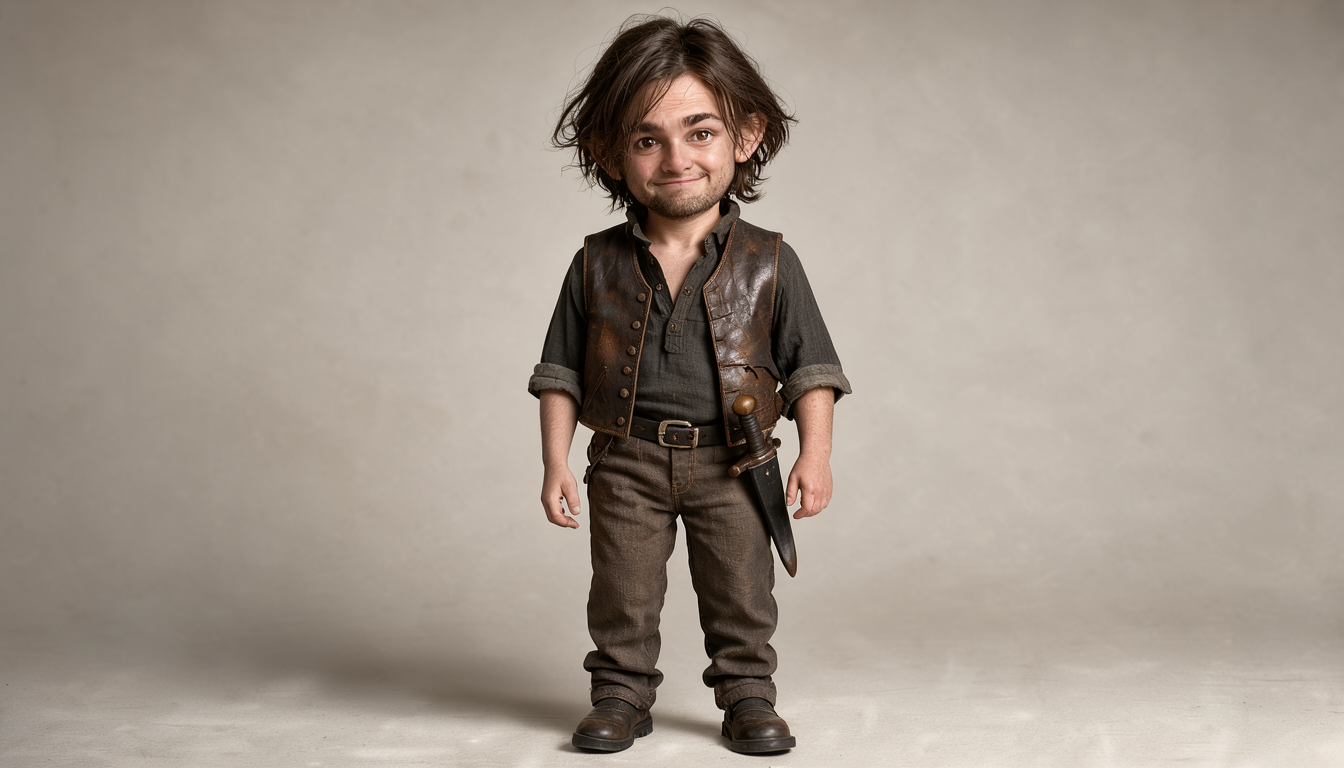
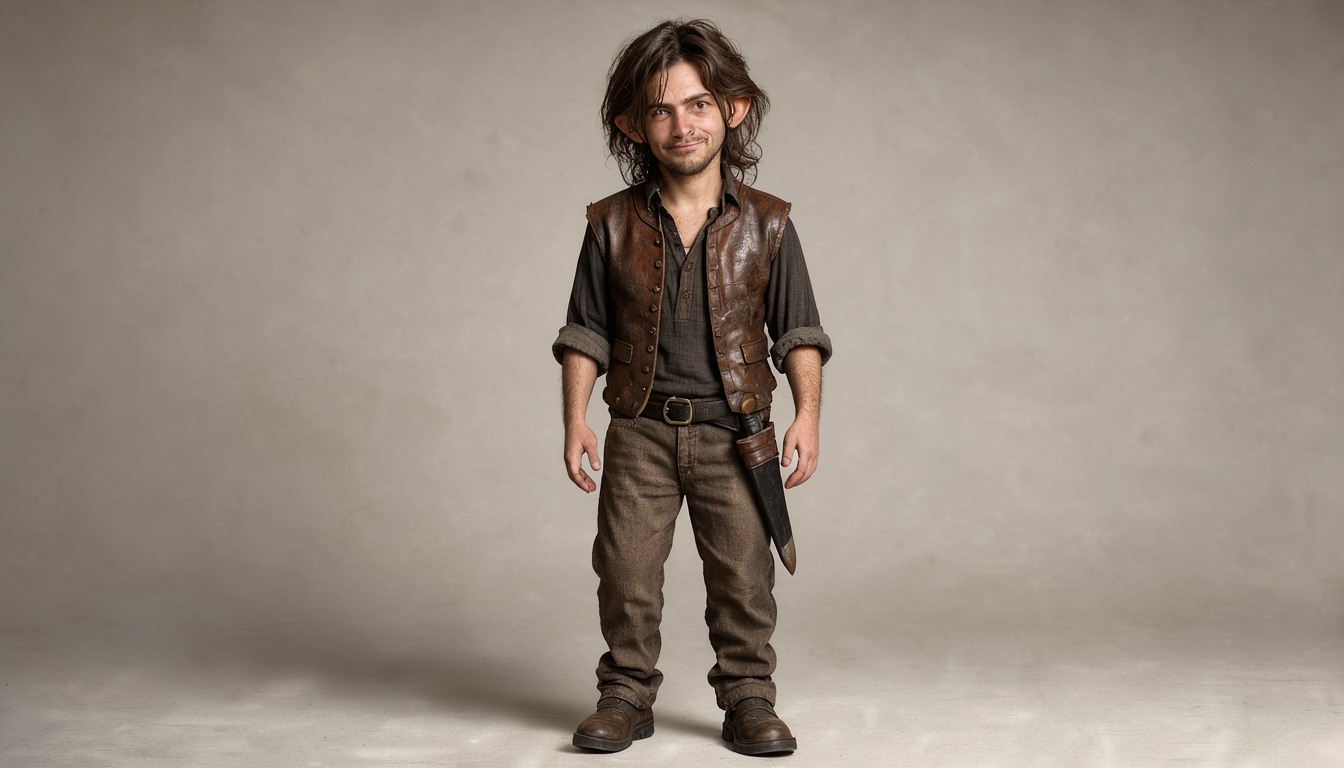
sheet-test: Shade lab batch 2 — ratio-anchored clause (head-to-body, ear-to-head, anti-chibi)

Changed region(s): [[0.375, 0.0, 0.6562, 0.9688], [0.5625, 0.9375, 0.5938, 1.0], [0.5625, 0.6875, 0.5938, 0.75]]

diff --git a/tests/test_shadelab.py b/tests/test_shadelab.py
@@ -20,9 +20,10 @@ SHADE_CHUNK = (
     "rolled sleeves, scuffed brown leather vest, belt dagger at hips"
 )
 SCALED_CLAUSE = (
-    "full-size adult human features scaled down uniformly to half size, same proportions as a "
-    "grown man, small rounded human ears, no pointed ears, no elf ears, no large ears, "
-    "no protruding ears"
+    "full-size adult human features scaled down uniformly, exactly the same head-to-body and "
+    "ear-to-head proportions as a full-size grown man, small ears lying close to the head, "
+    "small rounded human ears, no pointed ears, no elf ears, no large ears, no protruding ears, "
+    "no oversized head, no chibi or doll-like proportions"
 )
 
 

diff --git a/character-bible/sheet-test/shade-lab/descriptions.md b/character-bible/sheet-test/shade-lab/descriptions.md
@@ -6,7 +6,7 @@ ear bans (chunk untouched; additions around it).
 
 ## Shade (shade)
 
-young adult halfling man, mid-20s, mature adult face, lean build, messy shaggy dark brown hair falling over and covering his ears, ears small and rounded beneath it, light stubble, no beard, warm brown eyes, subtle sly closed-mouth expression, worn dark linen shirt with rolled sleeves, scuffed brown leather vest, belt dagger at hips, small adult stature about three feet tall, NOT a child, full-size adult human features scaled down uniformly to half size, same proportions as a grown man, small rounded human ears, no pointed ears, no elf ears, no large ears, no protruding ears, exactly two arms
+young adult halfling man, mid-20s, mature adult face, lean build, messy shaggy dark brown hair falling over and covering his ears, ears small and rounded beneath it, light stubble, no beard, warm brown eyes, subtle sly closed-mouth expression, worn dark linen shirt with rolled sleeves, scuffed brown leather vest, belt dagger at hips, small adult stature about three feet tall, NOT a child, full-size adult human features scaled down uniformly, exactly the same head-to-body and ear-to-head proportions as a full-size grown man, small ears lying close to the head, small rounded human ears, no pointed ears, no elf ears, no large ears, no protruding ears, no oversized head, no chibi or doll-like proportions, exactly two arms
 
 Sources:
 - character-bible/Sheets/Shade.pdf
